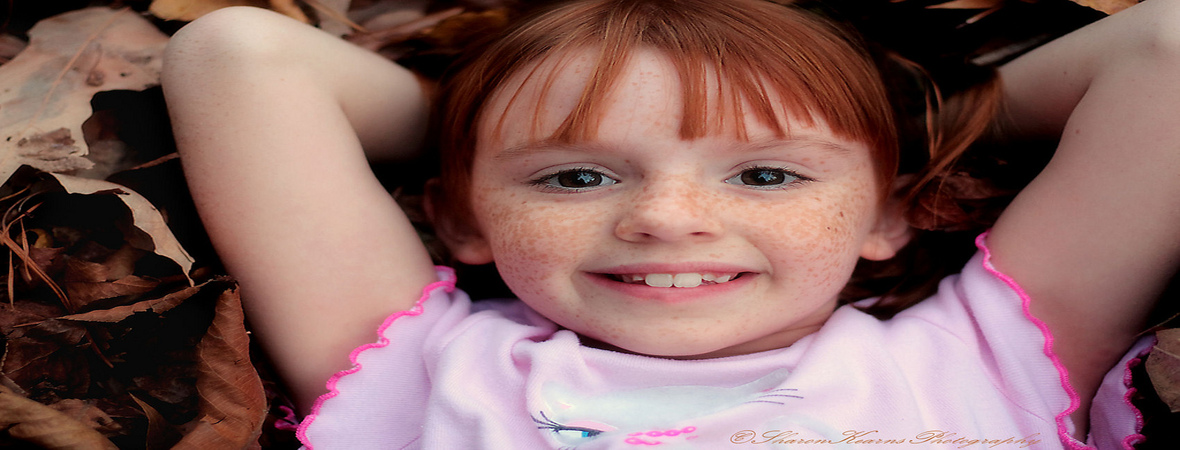
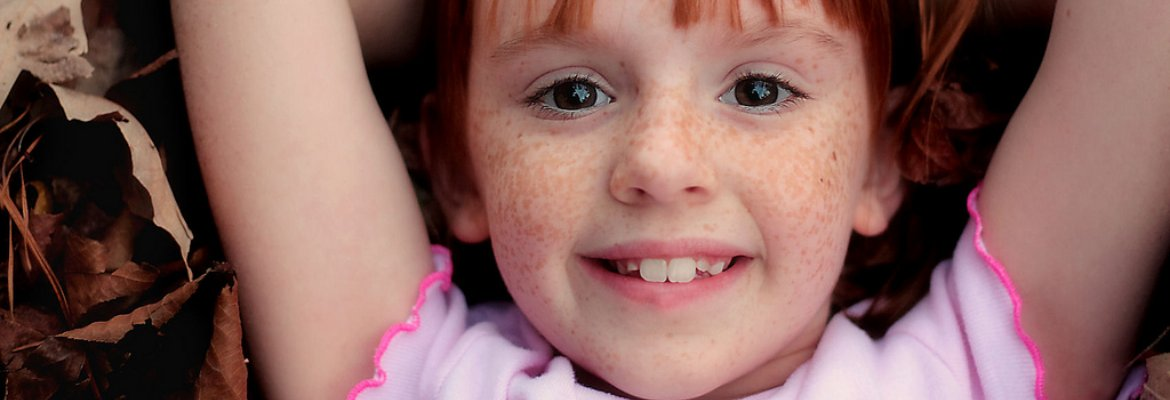
website design updated

diff --git a/smiles/smileapp/templates/base.html b/smiles/smileapp/templates/base.html
@@ -46,9 +46,9 @@
             <!-- Responsive Navbar Part 2: Place all navbar contents you want collapsed withing .navbar-collapse.collapse. -->
             <div class="nav-collapse collapse">
               <ul class="nav">
-                <li class="active"><a href="/">Home</a></li>
-                <li><a href="/smiles">Smiles</a></li>
-                <li><a href="/campaigns">Campaigns</a></li>
+                <li class="active" ><a href="/" id="home">Home</a></li>
+                <li><a href="/smiles" id="smiles">Smiles</a></li>
+                <li><a href="/campaigns" id="campaigns">Campaigns</a></li>
               <!--  <li class="dropdown">
                   <a href="#" class="dropdown-toggle" data-toggle="dropdown">Smiles <b class="caret"></b></a>
                   <ul class="dropdown-menu">
@@ -61,11 +61,11 @@
                     <li><a href="#">One more separated link</a></li>
                   </ul>
                 </li> -->
-                <li><a href="/aboutus">About Us</a></li>
-                <li><a href="/donate">Donate</a></li>
-                <li><a href="/contactus">Contact Us</a></li>
-                <li><a href="/blog">Blog</a></li>
-                <li><a href="/news">News</a></li>
+                <li><a href="/aboutus" id="aboutus">About Us</a></li>
+                <li><a href="/donate" id="donate">Donate</a></li>
+                <li><a href="/contactus" id="contactus">Contact Us</a></li>
+                <li><a href="/blog" id="blog">Blog</a></li>
+                <li><a href="/news" id="news">News</a></li>
                 <!-- Read about Bootstrap dropdowns at http://twitter.github.com/bootstrap/javascript.html#dropdowns -->
 
               </ul>
@@ -92,85 +92,67 @@
             <li data-target="#myCarousel" data-slide-to="7"></li>
             <li data-target="#myCarousel" data-slide-to="8"></li>
             <li data-target="#myCarousel" data-slide-to="9"></li>
-            <li data-target="#myCarousel" data-slide-to="10"></li>
           </ol>
           <!-- Carousel items -->
           <div class="carousel-inner">
             <div class="item active">
-                    <img src="/static/img/caraousel/origin_277123912.jpg" alt="">
+                    <img src="/static/img/caraousel/large_129649817.jpg" alt="">
                     <div class="carousel-caption">
-                      <h4>First Thumbnail label</h4>
-                      <p>Cras justo odio, dapibus ac facilisis in, egestas eget quam. Donec id elit non mi porta gravida at eget metus. Nullam id dolor id nibh ultricies vehicula ut id elit.</p>
+                      <h4>Smiling Makes Us all Happier</h4>
                     </div>
             </div>
             <div class="item">
-                  <img src="/static/img/caraousel/origin_34410398.jpg" alt="">
+                  <img src="/static/img/caraousel/large_4092888036.jpg" alt="">
                     <div class="carousel-caption">
-                      <h4>First Thumbnail label</h4>
-                      <p>Cras justo odio, dapibus ac facilisis in, egestas eget quam. Donec id elit non mi porta gravida at eget metus. Nullam id dolor id nibh ultricies vehicula ut id elit.</p>
+                      <h4>A smile is happiness you'll find right under your nose. - Tom Wilson</h4>
                     </div>
             </div>
            <div class="item">
-                    <img src="/static/img/caraousel/large_8512389984.jpg" alt="">
+                    <img src="/static/img/caraousel/large_306544429.jpg" alt="">
                     <div class="carousel-caption">
-                      <h4>First Thumbnail label</h4>
-                      <p>Cras justo odio, dapibus ac facilisis in, egestas eget quam. Donec id elit non mi porta gravida at eget metus. Nullam id dolor id nibh ultricies vehicula ut id elit.</p>
+                      <h4>A smile is the universal welcome - Max Eastman</h4>
+                    </div>
+            </div>
+             <div class="item">
+                    <img src="/static/img/caraousel/origin_2281588072.jpg" alt="">
+                    <div class="carousel-caption">
+                      <h4>Smile, it's free therapy - Douglas Horton </h4>
+                    </div>
+            </div>
+             <div class="item">
+                    <img src="/static/img/caraousel/origin_4246570737.jpg" alt="">
+                    <div class="carousel-caption">
+                      <h4>Colors are the smiles of nature - Leigh Hunt</h4>
+                    </div>
+            </div>
+             <div class="item">
+                    <img src="/static/img/caraousel/large_8108842042.jpg" alt="">
+                    <div class="carousel-caption">
+                      <h4>Peace begins with a smile - Mother Teresa </h4>
+                    </div>
+            </div>
+            <div class="item">
+                    <img src="/static/img/caraousel/large_4623811529.jpg" alt="">
+                    <div class="carousel-caption">
+                      <h4>Everyone smiles in the same language.</h4>
+                    </div>
+            </div>
+            <div class="item">
+                    <img src="/static/img/caraousel/large_6055437609.jpg" alt="">
+                    <div class="carousel-caption">
+                      <h4>Everyone looks so much better when they smile - Jimmy Fallon</h4>
                     </div>
             </div>
              <div class="item">
                     <img src="/static/img/caraousel/large_5091703712.jpg" alt="">
                     <div class="carousel-caption">
-                      <h4>First Thumbnail label</h4>
-                      <p>Cras justo odio, dapibus ac facilisis in, egestas eget quam. Donec id elit non mi porta gravida at eget metus. Nullam id dolor id nibh ultricies vehicula ut id elit.</p>
+                      <h4>A smile is a curve that sets everything straight - Phyllis Diller</h4>
                     </div>
             </div>
              <div class="item">
-                    <img src="/static/img/caraousel/large_8512389984.jpg" alt="">
+                    <img src="/static/img/caraousel/large_5618409285.jpg" alt="">
                     <div class="carousel-caption">
-                      <h4>First Thumbnail label</h4>
-                      <p>Cras justo odio, dapibus ac facilisis in, egestas eget quam. Donec id elit non mi porta gravida at eget metus. Nullam id dolor id nibh ultricies vehicula ut id elit.</p>
-                    </div>
-            </div>
-             <div class="item">
-                    <img src="/static/img/caraousel/large_4623811529.jpg" alt="">
-                    <div class="carousel-caption">
-                      <h4>First Thumbnail label</h4>
-                      <p>Cras justo odio, dapibus ac facilisis in, egestas eget quam. Donec id elit non mi porta gravida at eget metus. Nullam id dolor id nibh ultricies vehicula ut id elit.</p>
-                    </div>
-            </div>
-             <div class="item">
-                    <img src="/static/img/caraousel/large_4092888036.jpg" alt="">
-                    <div class="carousel-caption">
-                      <h4>First Thumbnail label</h4>
-                      <p>Cras justo odio, dapibus ac facilisis in, egestas eget quam. Donec id elit non mi porta gravida at eget metus. Nullam id dolor id nibh ultricies vehicula ut id elit.</p>
-                    </div>
-            </div>
-            <div class="item">
-                    <img src="/static/img/caraousel/large_2799480253.jpg" alt="">
-                    <div class="carousel-caption">
-                      <h4>First Thumbnail label</h4>
-                      <p>Cras justo odio, dapibus ac facilisis in, egestas eget quam. Donec id elit non mi porta gravida at eget metus. Nullam id dolor id nibh ultricies vehicula ut id elit.</p>
-                    </div>
-            </div>
-            <div class="item">
-                    <img src="/static/img/caraousel/large_513550755.jpg" alt="">
-                    <div class="carousel-caption">
-                      <h4>First Thumbnail label</h4>
-                      <p>Cras justo odio, dapibus ac facilisis in, egestas eget quam. Donec id elit non mi porta gravida at eget metus. Nullam id dolor id nibh ultricies vehicula ut id elit.</p>
-                    </div>
-            </div>
-             <div class="item">
-                    <img src="/static/img/caraousel/large_226419445.jpg" alt="">
-                    <div class="carousel-caption">
-                      <h4>First Thumbnail label</h4>
-                      <p>Cras justo odio, dapibus ac facilisis in, egestas eget quam. Donec id elit non mi porta gravida at eget metus. Nullam id dolor id nibh ultricies vehicula ut id elit.</p>
-                    </div>
-            </div>
-             <div class="item">
-                    <img src="/static/img/caraousel/large_80774713.jpg" alt="">
-                    <div class="carousel-caption">
-                      <h4>First Thumbnail label</h4>
-                      <p>Cras justo odio, dapibus ac facilisis in, egestas eget quam. Donec id elit non mi porta gravida at eget metus. Nullam id dolor id nibh ultricies vehicula ut id elit.</p>
+                      <h4>The world always looks brighter from behind a smile.</h4>
                     </div>
             </div>
           </div>
@@ -210,6 +192,13 @@
         $(function(){
           // carousel demo
           $('#myCarousel').carousel();
+
+         var path = window.location.pathname.split("/")[1];
+         $("ul.nav li").removeClass("active");
+         if (path === "")
+          $("#home").parent().addClass("active");
+          else
+          $("#"+path).parent().addClass("active");
         });
     </script>
         {%block extrascript%}

diff --git a/smiles/smileapp/templates/campaigns.html b/smiles/smileapp/templates/campaigns.html
@@ -4,6 +4,15 @@
 <div class="row-fluid">
     <div class="span12">
         <h3>Campaigns</h3>
+        <p>Lorem ipsum dolor sit amet, consectetur adipiscing elit. Nullam tempor scelerisque metus ut blandit. Nullam vehicula pellentesque massa, ac elementum libero molestie eget. Integer id massa vitae nibh tempor porta nec vel orci. Vivamus lorem enim, commodo vel hendrerit eget, gravida sit amet neque. Proin cursus consequat nibh id tincidunt. Duis lacinia, sem vel varius posuere, tellus ligula pretium elit, scelerisque laoreet lorem erat quis nisi. Praesent vehicula auctor quam, eget gravida metus egestas eget. Curabitur hendrerit lacus quis est pulvinar tempor.</p>
+
+<p>In sit amet orci mi. Duis quis leo ac mi egestas cursus. Praesent nec massa nibh, posuere sollicitudin nisi. Mauris ut odio tortor, id suscipit libero. Duis tempor varius varius. Vestibulum vitae lobortis arcu. Pellentesque suscipit odio ut nisl tempus eget euismod tortor pellentesque. Etiam a erat nisi. Aenean orci lacus, feugiat sit amet hendrerit a, bibendum ac tortor. Nam elit mi, tristique nec volutpat in, fermentum commodo metus. Quisque feugiat auctor dolor, non convallis dui varius non. Proin sed nisi in quam commodo dapibus. Etiam bibendum nulla sit amet lectus aliquam sit amet egestas velit aliquet. Quisque mattis mauris sed purus hendrerit malesuada. Aenean ac nunc id velit laoreet scelerisque vel vitae dolor.</p>
+
+<p>Donec eleifend venenatis rutrum. Aliquam vitae diam vel elit varius dignissim non in nibh. Quisque venenatis, lorem non dictum condimentum, neque velit dictum lectus, in semper enim diam eu libero. Nam sed purus lacus. Etiam elementum, lorem eget venenatis sagittis, dui odio ornare diam, malesuada porttitor purus ipsum vel lectus. Vestibulum ante ipsum primis in faucibus orci luctus et ultrices posuere cubilia Curae; Aliquam ut augue a ante faucibus tincidunt vitae at elit. Praesent aliquet metus sed nibh posuere id mollis leo cursus. Lorem ipsum dolor sit amet, consectetur adipiscing elit. Curabitur tincidunt ligula non enim condimentum eu pellentesque erat sagittis. Sed nec tristique erat. Phasellus vitae lectus sem.</p>
+
+</p>Vivamus ut nibh ac mi rutrum euismod eget eu velit. Aenean malesuada, neque et eleifend cursus, ipsum lorem bibendum neque, a cursus massa mi at libero. Praesent scelerisque consequat iaculis. Integer ut nunc eu tortor mollis adipiscing gravida id mauris. Donec pulvinar interdum eros suscipit consequat. Mauris imperdiet accumsan augue in vulputate. Praesent lorem dolor, condimentum eget iaculis nec, facilisis non velit. Proin convallis ullamcorper viverra. Nullam non massa vitae sapien tempor pellentesque eget sit amet risus.</p>
+
+<p>Ut molestie condimentum mollis. Vestibulum vel mauris enim, sed egestas lacus. Quisque aliquam varius dignissim. Nunc condimentum venenatis mauris sed pretium. Proin orci neque, eleifend id cursus nec, vestibulum id eros. Vivamus malesuada nulla non turpis porttitor dictum. Morbi turpis sem, semper quis venenatis ac, vehicula non massa.</p>
     </div>
 </div>
 {% endblock %}

diff --git a/smiles/smileapp/templates/legal.html b/smiles/smileapp/templates/legal.html
@@ -4,6 +4,15 @@
 <div class="row-fluid">
     <div class="span12">
         <h3>Legal</h3>
+        <p>Lorem ipsum dolor sit amet, consectetur adipiscing elit. Nullam tempor scelerisque metus ut blandit. Nullam vehicula pellentesque massa, ac elementum libero molestie eget. Integer id massa vitae nibh tempor porta nec vel orci. Vivamus lorem enim, commodo vel hendrerit eget, gravida sit amet neque. Proin cursus consequat nibh id tincidunt. Duis lacinia, sem vel varius posuere, tellus ligula pretium elit, scelerisque laoreet lorem erat quis nisi. Praesent vehicula auctor quam, eget gravida metus egestas eget. Curabitur hendrerit lacus quis est pulvinar tempor.</p>
+
+<p>In sit amet orci mi. Duis quis leo ac mi egestas cursus. Praesent nec massa nibh, posuere sollicitudin nisi. Mauris ut odio tortor, id suscipit libero. Duis tempor varius varius. Vestibulum vitae lobortis arcu. Pellentesque suscipit odio ut nisl tempus eget euismod tortor pellentesque. Etiam a erat nisi. Aenean orci lacus, feugiat sit amet hendrerit a, bibendum ac tortor. Nam elit mi, tristique nec volutpat in, fermentum commodo metus. Quisque feugiat auctor dolor, non convallis dui varius non. Proin sed nisi in quam commodo dapibus. Etiam bibendum nulla sit amet lectus aliquam sit amet egestas velit aliquet. Quisque mattis mauris sed purus hendrerit malesuada. Aenean ac nunc id velit laoreet scelerisque vel vitae dolor.</p>
+
+<p>Donec eleifend venenatis rutrum. Aliquam vitae diam vel elit varius dignissim non in nibh. Quisque venenatis, lorem non dictum condimentum, neque velit dictum lectus, in semper enim diam eu libero. Nam sed purus lacus. Etiam elementum, lorem eget venenatis sagittis, dui odio ornare diam, malesuada porttitor purus ipsum vel lectus. Vestibulum ante ipsum primis in faucibus orci luctus et ultrices posuere cubilia Curae; Aliquam ut augue a ante faucibus tincidunt vitae at elit. Praesent aliquet metus sed nibh posuere id mollis leo cursus. Lorem ipsum dolor sit amet, consectetur adipiscing elit. Curabitur tincidunt ligula non enim condimentum eu pellentesque erat sagittis. Sed nec tristique erat. Phasellus vitae lectus sem.</p>
+
+</p>Vivamus ut nibh ac mi rutrum euismod eget eu velit. Aenean malesuada, neque et eleifend cursus, ipsum lorem bibendum neque, a cursus massa mi at libero. Praesent scelerisque consequat iaculis. Integer ut nunc eu tortor mollis adipiscing gravida id mauris. Donec pulvinar interdum eros suscipit consequat. Mauris imperdiet accumsan augue in vulputate. Praesent lorem dolor, condimentum eget iaculis nec, facilisis non velit. Proin convallis ullamcorper viverra. Nullam non massa vitae sapien tempor pellentesque eget sit amet risus.</p>
+
+<p>Ut molestie condimentum mollis. Vestibulum vel mauris enim, sed egestas lacus. Quisque aliquam varius dignissim. Nunc condimentum venenatis mauris sed pretium. Proin orci neque, eleifend id cursus nec, vestibulum id eros. Vivamus malesuada nulla non turpis porttitor dictum. Morbi turpis sem, semper quis venenatis ac, vehicula non massa.</p>
     </div>
 </div>
 {% endblock %}

diff --git a/smiles/smileapp/templates/blog.html b/smiles/smileapp/templates/blog.html
@@ -4,6 +4,15 @@
 <div class="row-fluid">
     <div class="span12">
         <h3>Blog</h3>
+        <p>Lorem ipsum dolor sit amet, consectetur adipiscing elit. Nullam tempor scelerisque metus ut blandit. Nullam vehicula pellentesque massa, ac elementum libero molestie eget. Integer id massa vitae nibh tempor porta nec vel orci. Vivamus lorem enim, commodo vel hendrerit eget, gravida sit amet neque. Proin cursus consequat nibh id tincidunt. Duis lacinia, sem vel varius posuere, tellus ligula pretium elit, scelerisque laoreet lorem erat quis nisi. Praesent vehicula auctor quam, eget gravida metus egestas eget. Curabitur hendrerit lacus quis est pulvinar tempor.</p>
+
+<p>In sit amet orci mi. Duis quis leo ac mi egestas cursus. Praesent nec massa nibh, posuere sollicitudin nisi. Mauris ut odio tortor, id suscipit libero. Duis tempor varius varius. Vestibulum vitae lobortis arcu. Pellentesque suscipit odio ut nisl tempus eget euismod tortor pellentesque. Etiam a erat nisi. Aenean orci lacus, feugiat sit amet hendrerit a, bibendum ac tortor. Nam elit mi, tristique nec volutpat in, fermentum commodo metus. Quisque feugiat auctor dolor, non convallis dui varius non. Proin sed nisi in quam commodo dapibus. Etiam bibendum nulla sit amet lectus aliquam sit amet egestas velit aliquet. Quisque mattis mauris sed purus hendrerit malesuada. Aenean ac nunc id velit laoreet scelerisque vel vitae dolor.</p>
+
+<p>Donec eleifend venenatis rutrum. Aliquam vitae diam vel elit varius dignissim non in nibh. Quisque venenatis, lorem non dictum condimentum, neque velit dictum lectus, in semper enim diam eu libero. Nam sed purus lacus. Etiam elementum, lorem eget venenatis sagittis, dui odio ornare diam, malesuada porttitor purus ipsum vel lectus. Vestibulum ante ipsum primis in faucibus orci luctus et ultrices posuere cubilia Curae; Aliquam ut augue a ante faucibus tincidunt vitae at elit. Praesent aliquet metus sed nibh posuere id mollis leo cursus. Lorem ipsum dolor sit amet, consectetur adipiscing elit. Curabitur tincidunt ligula non enim condimentum eu pellentesque erat sagittis. Sed nec tristique erat. Phasellus vitae lectus sem.</p>
+
+</p>Vivamus ut nibh ac mi rutrum euismod eget eu velit. Aenean malesuada, neque et eleifend cursus, ipsum lorem bibendum neque, a cursus massa mi at libero. Praesent scelerisque consequat iaculis. Integer ut nunc eu tortor mollis adipiscing gravida id mauris. Donec pulvinar interdum eros suscipit consequat. Mauris imperdiet accumsan augue in vulputate. Praesent lorem dolor, condimentum eget iaculis nec, facilisis non velit. Proin convallis ullamcorper viverra. Nullam non massa vitae sapien tempor pellentesque eget sit amet risus.</p>
+
+<p>Ut molestie condimentum mollis. Vestibulum vel mauris enim, sed egestas lacus. Quisque aliquam varius dignissim. Nunc condimentum venenatis mauris sed pretium. Proin orci neque, eleifend id cursus nec, vestibulum id eros. Vivamus malesuada nulla non turpis porttitor dictum. Morbi turpis sem, semper quis venenatis ac, vehicula non massa.</p>
     </div>
 </div>
 {% endblock %}

diff --git a/smiles/smileapp/templates/news.html b/smiles/smileapp/templates/news.html
@@ -4,6 +4,15 @@
 <div class="row-fluid">
     <div class="span12">
         <h3>News</h3>
+        <p>Lorem ipsum dolor sit amet, consectetur adipiscing elit. Nullam tempor scelerisque metus ut blandit. Nullam vehicula pellentesque massa, ac elementum libero molestie eget. Integer id massa vitae nibh tempor porta nec vel orci. Vivamus lorem enim, commodo vel hendrerit eget, gravida sit amet neque. Proin cursus consequat nibh id tincidunt. Duis lacinia, sem vel varius posuere, tellus ligula pretium elit, scelerisque laoreet lorem erat quis nisi. Praesent vehicula auctor quam, eget gravida metus egestas eget. Curabitur hendrerit lacus quis est pulvinar tempor.</p>
+
+<p>In sit amet orci mi. Duis quis leo ac mi egestas cursus. Praesent nec massa nibh, posuere sollicitudin nisi. Mauris ut odio tortor, id suscipit libero. Duis tempor varius varius. Vestibulum vitae lobortis arcu. Pellentesque suscipit odio ut nisl tempus eget euismod tortor pellentesque. Etiam a erat nisi. Aenean orci lacus, feugiat sit amet hendrerit a, bibendum ac tortor. Nam elit mi, tristique nec volutpat in, fermentum commodo metus. Quisque feugiat auctor dolor, non convallis dui varius non. Proin sed nisi in quam commodo dapibus. Etiam bibendum nulla sit amet lectus aliquam sit amet egestas velit aliquet. Quisque mattis mauris sed purus hendrerit malesuada. Aenean ac nunc id velit laoreet scelerisque vel vitae dolor.</p>
+
+<p>Donec eleifend venenatis rutrum. Aliquam vitae diam vel elit varius dignissim non in nibh. Quisque venenatis, lorem non dictum condimentum, neque velit dictum lectus, in semper enim diam eu libero. Nam sed purus lacus. Etiam elementum, lorem eget venenatis sagittis, dui odio ornare diam, malesuada porttitor purus ipsum vel lectus. Vestibulum ante ipsum primis in faucibus orci luctus et ultrices posuere cubilia Curae; Aliquam ut augue a ante faucibus tincidunt vitae at elit. Praesent aliquet metus sed nibh posuere id mollis leo cursus. Lorem ipsum dolor sit amet, consectetur adipiscing elit. Curabitur tincidunt ligula non enim condimentum eu pellentesque erat sagittis. Sed nec tristique erat. Phasellus vitae lectus sem.</p>
+
+</p>Vivamus ut nibh ac mi rutrum euismod eget eu velit. Aenean malesuada, neque et eleifend cursus, ipsum lorem bibendum neque, a cursus massa mi at libero. Praesent scelerisque consequat iaculis. Integer ut nunc eu tortor mollis adipiscing gravida id mauris. Donec pulvinar interdum eros suscipit consequat. Mauris imperdiet accumsan augue in vulputate. Praesent lorem dolor, condimentum eget iaculis nec, facilisis non velit. Proin convallis ullamcorper viverra. Nullam non massa vitae sapien tempor pellentesque eget sit amet risus.</p>
+
+<p>Ut molestie condimentum mollis. Vestibulum vel mauris enim, sed egestas lacus. Quisque aliquam varius dignissim. Nunc condimentum venenatis mauris sed pretium. Proin orci neque, eleifend id cursus nec, vestibulum id eros. Vivamus malesuada nulla non turpis porttitor dictum. Morbi turpis sem, semper quis venenatis ac, vehicula non massa.</p>
     </div>
 </div>
 {% endblock %}
